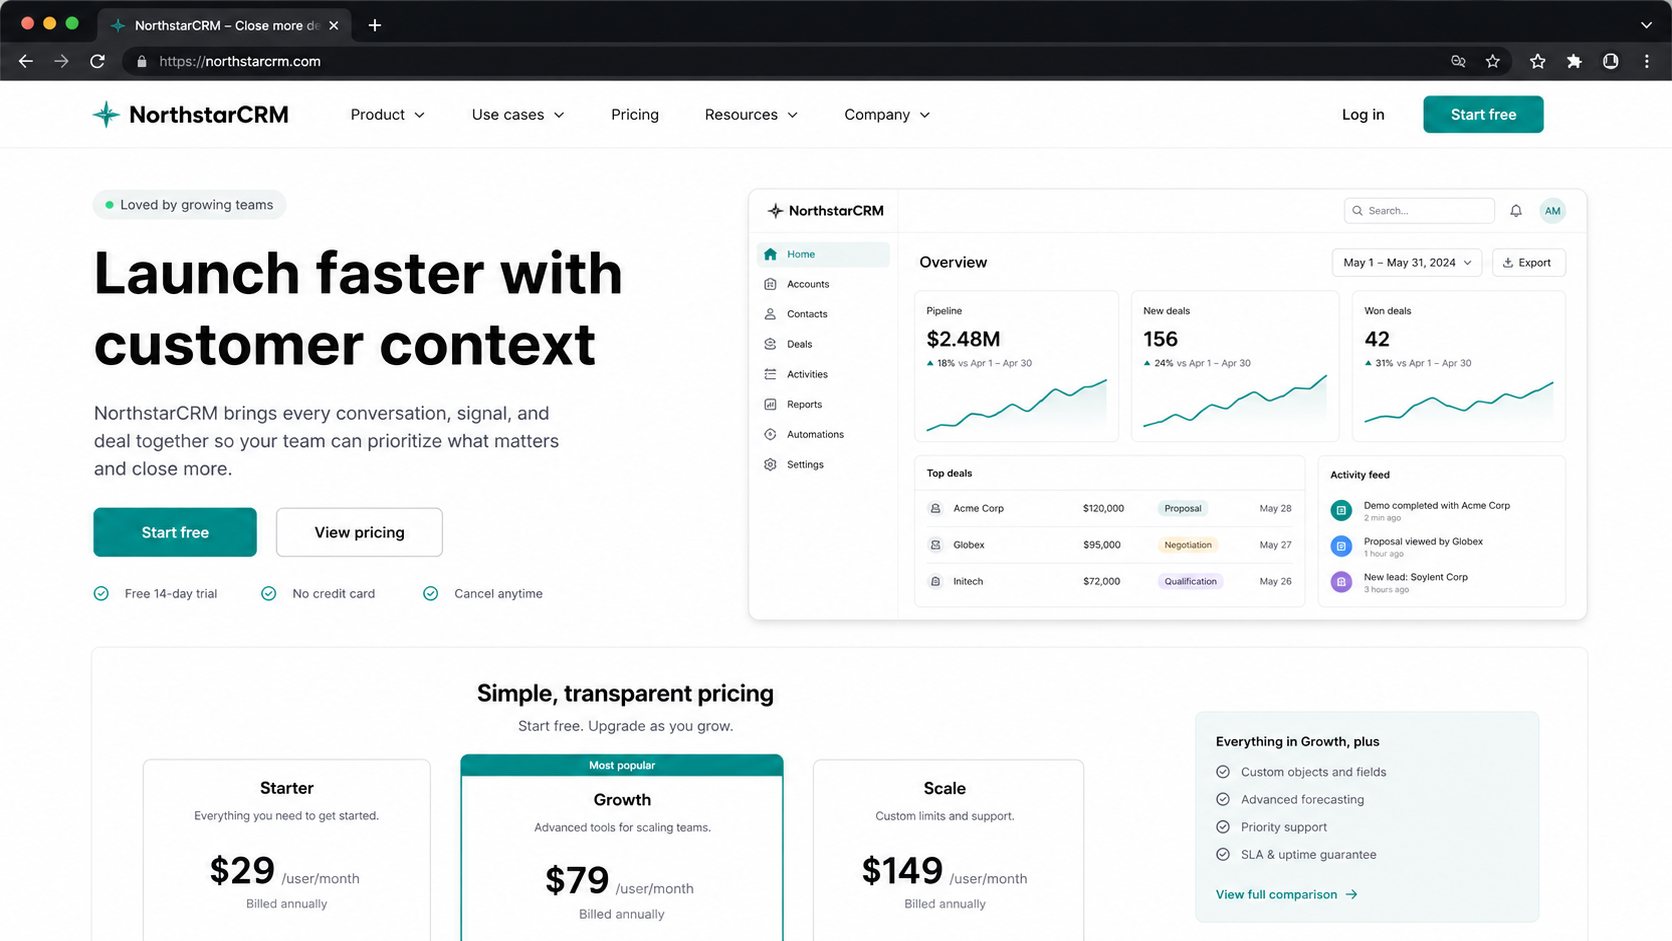
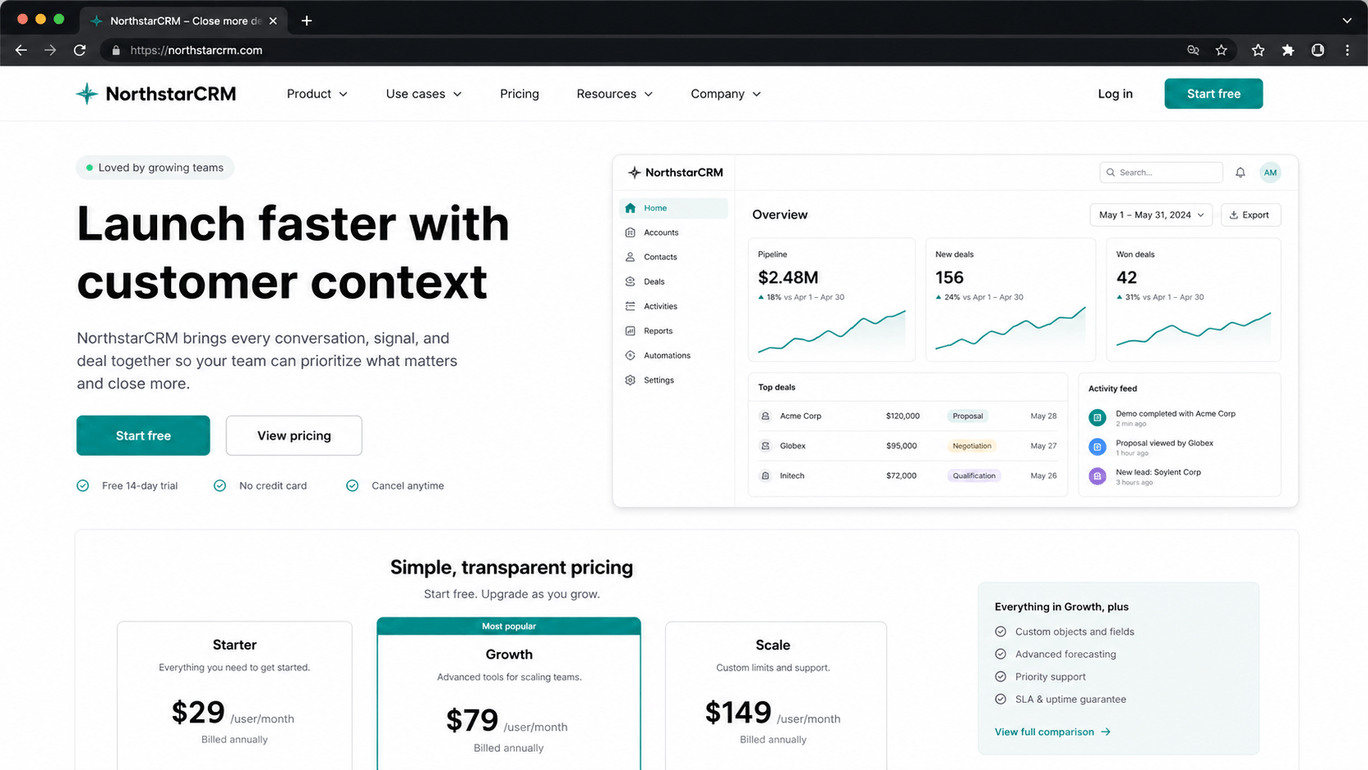
Optimize marketing performance

diff --git a/app/(marketing)/marketing/page.tsx b/app/(marketing)/marketing/page.tsx
@@ -1,19 +1,14 @@
-"use client";
-
-import { useState } from "react";
 import Link from "next/link";
 import Image from "next/image";
 import {
   ArrowRight,
   Code2,
-  FileText,
   Github,
-  Menu,
   MessageSquare,
   Sparkles,
-  X,
 } from "lucide-react";
 import { siGithub, siVercel, type SimpleIcon } from "simple-icons";
+import { MarketingNavbar } from "./MarketingNavbar";
 
 type ToolLogo = {
   name: string;
@@ -34,14 +29,6 @@ type WorkflowStep = {
 };
 
 const githubUrl = "https://github.com/joshuasknott/founder-os";
-
-const navItems = [
-  { label: "Product", href: "#product" },
-  { label: "Workflow", href: "#workflow" },
-  { label: "Integrations", href: "#integrations" },
-  { label: "Trust", href: "#trust" },
-  { label: "Privacy", href: "/privacy" },
-];
 
 const toolLogos: ToolLogo[] = [
   { name: "Gmail", iconNode: <GmailLogo /> },
@@ -177,14 +164,12 @@ function LogoMark() {
 }
 
 export default function MarketingPage() {
-  const [mobileOpen, setMobileOpen] = useState(false);
-
   return (
     <>
       <a href="#main-content" className="skip-link">
         Skip to main content
       </a>
-      <Navbar mobileOpen={mobileOpen} setMobileOpen={setMobileOpen} />
+      <MarketingNavbar />
       <main id="main-content" tabIndex={-1} className="min-h-screen bg-[#fbfaf7] text-zinc-950 focus:outline-none">
         <HeroSection />
         <WorkflowProofSection />
@@ -194,79 +179,6 @@ export default function MarketingPage() {
       </main>
       <Footer />
     </>
-  );
-}
-
-function Navbar({
-  mobileOpen,
-  setMobileOpen,
-}: {
-  mobileOpen: boolean;
-  setMobileOpen: (value: boolean) => void;
-}) {
-  return (
-    <header className="sticky top-0 z-40 border-b border-zinc-950/[0.06] bg-[#fbfaf7]/90 backdrop-blur-xl">
-      <nav aria-label="Primary navigation" className="mx-auto flex max-w-[1180px] items-center justify-between px-5 py-4 sm:px-8">
-        <Link href="/marketing" className="flex items-center gap-3" aria-label="FounderOS marketing home">
-          <LogoMark />
-          <span className="text-xl font-bold text-zinc-950">FounderOS</span>
-        </Link>
-
-        <div className="hidden items-center gap-8 lg:flex">
-          {navItems.map((item) => (
-            <a key={item.label} href={item.href} className="text-sm font-medium text-zinc-700 transition hover:text-zinc-950">
-              {item.label}
-            </a>
-          ))}
-          <a href={githubUrl} className="text-sm font-medium text-zinc-700 transition hover:text-zinc-950">
-            GitHub
-          </a>
-        </div>
-
-        <div className="hidden items-center gap-3 lg:flex">
-          <Link href="/" className="rounded-lg px-4 py-2 text-sm font-semibold text-zinc-700 transition hover:bg-white hover:text-zinc-950">
-            Log in
-          </Link>
-          <Link href="/" className="rounded-lg bg-zinc-950 px-5 py-2.5 text-sm font-semibold text-white shadow-sm transition hover:bg-zinc-800">
-            Get started
-          </Link>
-        </div>
-
-        <button
-          type="button"
-          className="inline-flex h-10 w-10 items-center justify-center rounded-lg border border-zinc-950/10 bg-white text-zinc-950 lg:hidden"
-          onClick={() => setMobileOpen(!mobileOpen)}
-          aria-label={mobileOpen ? "Close navigation" : "Open navigation"}
-          aria-expanded={mobileOpen}
-          aria-controls="mobile-navigation"
-        >
-          {mobileOpen ? <X size={18} /> : <Menu size={18} />}
-        </button>
-      </nav>
-
-      {mobileOpen && (
-        <nav id="mobile-navigation" aria-label="Mobile navigation" className="border-t border-zinc-950/[0.06] bg-[#fbfaf7] px-5 py-5 lg:hidden">
-          <div className="flex flex-col gap-4">
-            {navItems.map((item) => (
-              <a
-                key={item.label}
-                href={item.href}
-                onClick={() => setMobileOpen(false)}
-                className="rounded-md py-2 text-sm font-medium text-zinc-700"
-              >
-                {item.label}
-              </a>
-            ))}
-            <Link href="/" className="rounded-lg border border-zinc-950/10 bg-white px-4 py-2 text-center text-sm font-semibold">
-              Log in
-            </Link>
-            <Link href="/" className="rounded-lg bg-zinc-950 px-4 py-2 text-center text-sm font-semibold text-white">
-              Get started
-            </Link>
-          </div>
-        </nav>
-      )}
-    </header>
   );
 }
 
@@ -387,8 +299,6 @@ function ConnectorLogo({ name }: { name: string }) {
 
   if (tool?.icon) return <SimpleBrandIcon icon={tool.icon} className="h-6 w-6 shrink-0" />;
   if (tool?.iconNode) return <span className="inline-flex h-6 w-6 shrink-0 items-center justify-center">{tool.iconNode}</span>;
-  if (name === "Library") return <FileText size={18} className="text-zinc-700" />;
-
   return (
     <span className="flex h-6 w-6 shrink-0 items-center justify-center rounded-md bg-zinc-950 text-[10px] font-bold text-white">
       {name.slice(0, 1)}
@@ -411,10 +321,10 @@ function WebsiteOutputFrame() {
         <Image
           src="/marketing/demo-output-northstarcrm.png"
           alt="NorthstarCRM launch website preview prepared for founder review"
-          width={1792}
-          height={1024}
+          width={1368}
+          height={770}
+          sizes="(min-width: 1024px) 684px, calc(100vw - 40px)"
           className="h-full w-full object-cover"
-          priority
         />
       </div>
     </div>

diff --git a/app/(marketing)/marketing/MarketingNavbar.tsx b/app/(marketing)/marketing/MarketingNavbar.tsx
@@ -1,0 +1,90 @@
+"use client";
+
+import { useState } from "react";
+import Link from "next/link";
+import { Menu, X } from "lucide-react";
+
+const githubUrl = "https://github.com/joshuasknott/founder-os";
+
+const navItems = [
+  { label: "Product", href: "#product" },
+  { label: "Workflow", href: "#workflow" },
+  { label: "Integrations", href: "#integrations" },
+  { label: "Trust", href: "#trust" },
+  { label: "Privacy", href: "/privacy" },
+];
+
+function LogoMark() {
+  return (
+    <span aria-hidden="true" className="marketing-logo-mark inline-flex h-9 w-9 items-center justify-center overflow-hidden rounded-lg border border-zinc-950/10 bg-white shadow-sm" />
+  );
+}
+
+export function MarketingNavbar() {
+  const [mobileOpen, setMobileOpen] = useState(false);
+
+  return (
+    <header className="sticky top-0 z-40 border-b border-zinc-950/[0.06] bg-[#fbfaf7]/90 backdrop-blur-xl">
+      <nav aria-label="Primary navigation" className="mx-auto flex max-w-[1180px] items-center justify-between px-5 py-4 sm:px-8">
+        <a href="/marketing" className="flex items-center gap-3" aria-label="FounderOS marketing home">
+          <LogoMark />
+          <span className="text-xl font-bold text-zinc-950">FounderOS</span>
+        </a>
+
+        <div className="hidden items-center gap-8 lg:flex">
+          {navItems.map((item) => (
+            <a key={item.label} href={item.href} className="text-sm font-medium text-zinc-700 transition hover:text-zinc-950">
+              {item.label}
+            </a>
+          ))}
+          <a href={githubUrl} className="text-sm font-medium text-zinc-700 transition hover:text-zinc-950">
+            GitHub
+          </a>
+        </div>
+
+        <div className="hidden items-center gap-3 lg:flex">
+          <Link href="/" prefetch={false} className="rounded-lg px-4 py-2 text-sm font-semibold text-zinc-700 transition hover:bg-white hover:text-zinc-950">
+            Log in
+          </Link>
+          <Link href="/" prefetch={false} className="rounded-lg bg-zinc-950 px-5 py-2.5 text-sm font-semibold text-white shadow-sm transition hover:bg-zinc-800">
+            Get started
+          </Link>
+        </div>
+
+        <button
+          type="button"
+          className="inline-flex h-10 w-10 items-center justify-center rounded-lg border border-zinc-950/10 bg-white text-zinc-950 lg:hidden"
+          onClick={() => setMobileOpen(!mobileOpen)}
+          aria-label={mobileOpen ? "Close navigation" : "Open navigation"}
+          aria-expanded={mobileOpen}
+          aria-controls="mobile-navigation"
+        >
+          {mobileOpen ? <X size={18} /> : <Menu size={18} />}
+        </button>
+      </nav>
+
+      {mobileOpen && (
+        <nav id="mobile-navigation" aria-label="Mobile navigation" className="border-t border-zinc-950/[0.06] bg-[#fbfaf7] px-5 py-5 lg:hidden">
+          <div className="flex flex-col gap-4">
+            {navItems.map((item) => (
+              <a
+                key={item.label}
+                href={item.href}
+                onClick={() => setMobileOpen(false)}
+                className="rounded-md py-2 text-sm font-medium text-zinc-700"
+              >
+                {item.label}
+              </a>
+            ))}
+            <Link href="/" prefetch={false} className="rounded-lg border border-zinc-950/10 bg-white px-4 py-2 text-center text-sm font-semibold">
+              Log in
+            </Link>
+            <Link href="/" prefetch={false} className="rounded-lg bg-zinc-950 px-4 py-2 text-center text-sm font-semibold text-white">
+              Get started
+            </Link>
+          </div>
+        </nav>
+      )}
+    </header>
+  );
+}

diff --git a/app/(marketing)/marketing.css b/app/(marketing)/marketing.css
@@ -80,6 +80,12 @@
     transform: translateY(0);
   }
 
+  .marketing-logo-mark {
+    background-image: url("/marketing/founderos-mark-generated.png");
+    background-position: center;
+    background-size: cover;
+  }
+
   .text-balance {
     text-wrap: balance;
   }